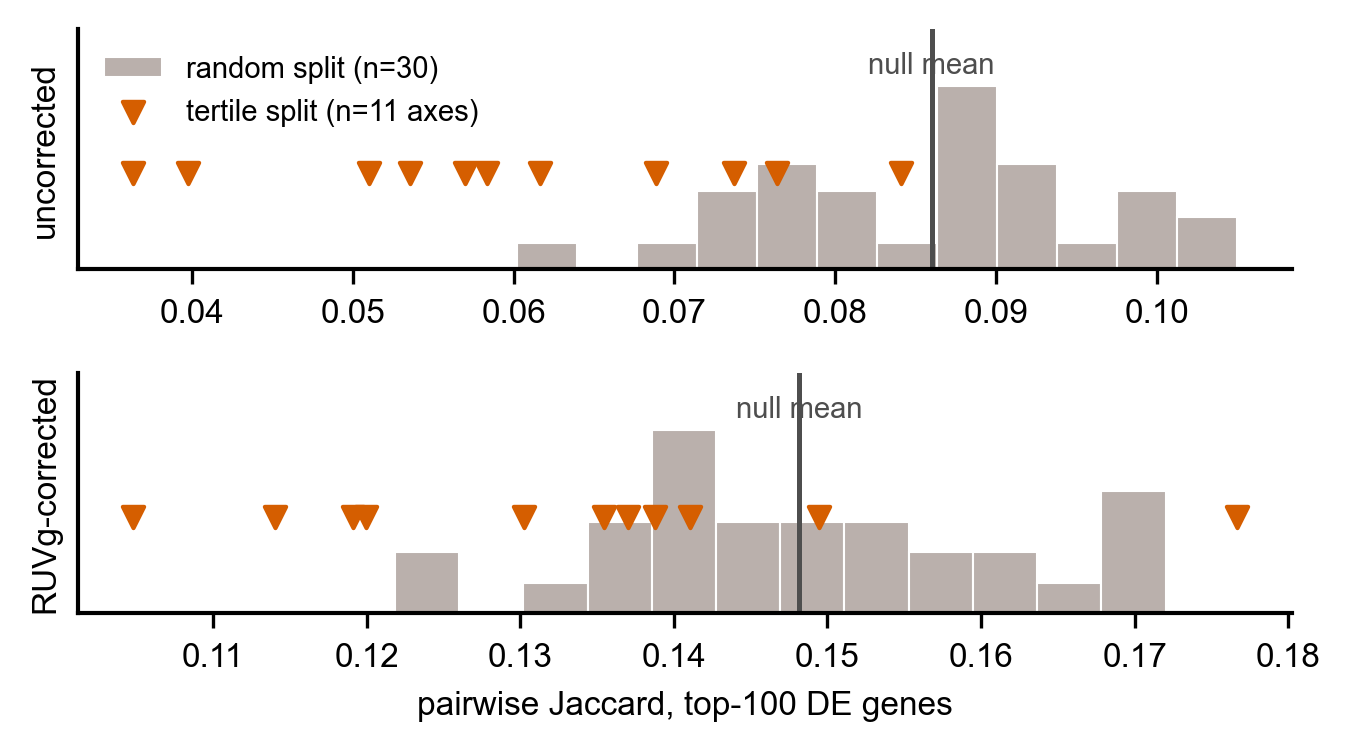
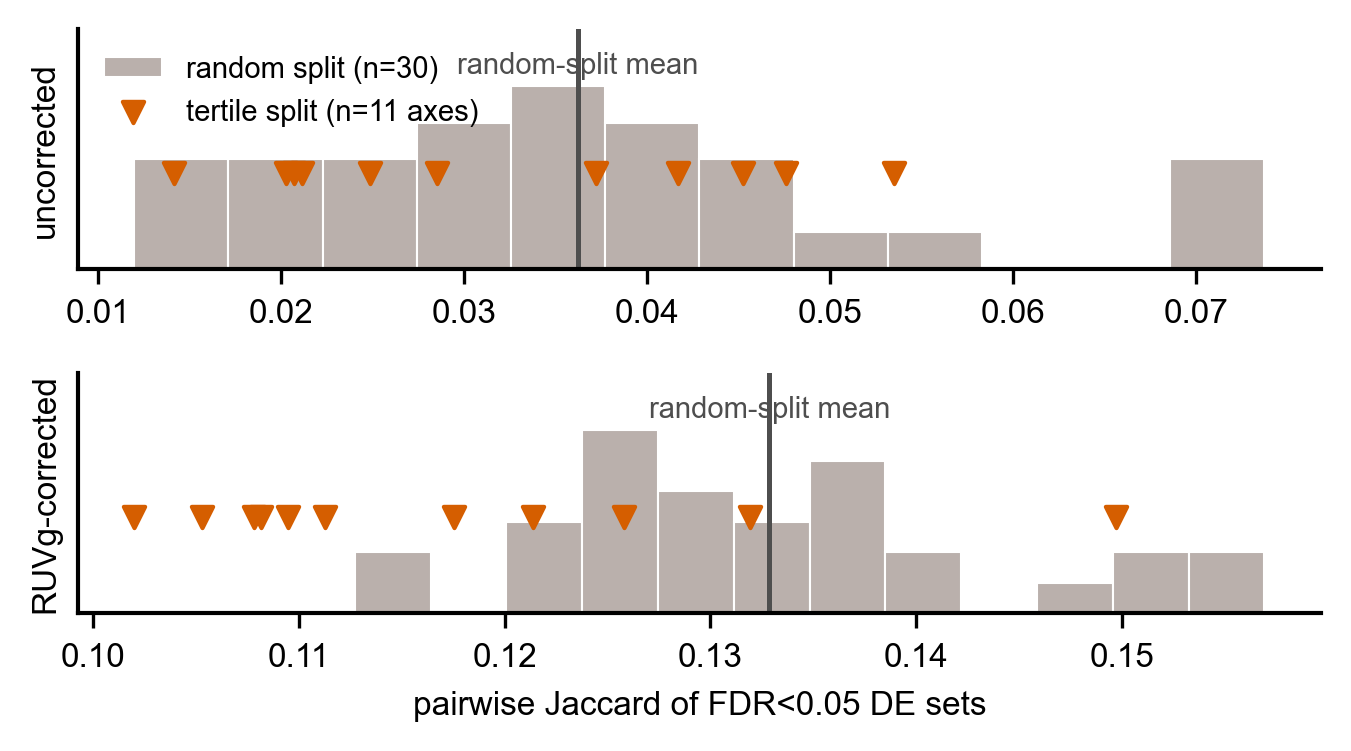
ㄱㄷㄴ

diff --git a/EDA/control_composition/compute_fdr_set_jaccard.py b/EDA/control_composition/compute_fdr_set_jaccard.py
@@ -1,0 +1,99 @@
+"""Gene-level Jaccard over the FDR<0.05 significant SET (not a fixed top-k).
+
+The significant set is what a paper actually reports, so this is the estimand the
+control-composition claim is about. Set sizes differ across strata by design -- that
+instability is part of the result, not a nuisance to be normalized away -- so the
+expected-Jaccard-under-independence baseline is reported alongside.
+
+Cache-first: reads the CSV if present, recomputes only with force=True.
+"""
+import sys
+from pathlib import Path
+
+import numpy as np
+import pandas as pd
+from scipy.stats import norm
+
+ROOT = Path(__file__).resolve().parents[2]
+sys.path.insert(0, str(ROOT))
+import config
+
+STAT_DIR = config.CTRL_COMP_DIR / "deseq2_stats"
+OUT_CSV = config.CTRL_COMP_DIR / "gene_fdr_set_jaccard.csv"
+DESIGNS = ["no_covariate", "ruvg_k2"]
+N_GENES = 18892
+
+
+def bh_reject(p, q=0.05):
+    p = np.asarray(p)
+    n = len(p)
+    o = np.argsort(p)
+    ok = p[o] <= (np.arange(1, n + 1) / n) * q
+    r = np.zeros(n, dtype=bool)
+    if ok.any():
+        r[o[:np.max(np.where(ok)[0]) + 1]] = True
+    return r
+
+
+def sig_sets(tag, design, q=0.05):
+    out = []
+    for t in range(3):
+        f = STAT_DIR / tag / f"T{t}_{design}.csv.gz"
+        if not f.exists():
+            return None
+        s = pd.read_csv(f, index_col=0)["stat"].dropna()
+        out.append(set(s.index[bh_reject(2 * norm.sf(np.abs(s.values)), q)]))
+    return out
+
+
+def pair_stats(sets):
+    """Observed Jaccard and its independence expectation, averaged over the 3 pairs."""
+    obs, exp = [], []
+    for i, a in enumerate(sets):
+        for b in sets[i + 1:]:
+            if not (a | b):
+                continue
+            obs.append(len(a & b) / len(a | b))
+            e = len(a) * len(b) / N_GENES
+            exp.append(e / (len(a) + len(b) - e))
+    if not obs:
+        return np.nan, np.nan
+    return float(np.mean(obs)), float(np.mean(exp))
+
+
+def compute():
+    rows = []
+    for tag in sorted(p.name for p in STAT_DIR.iterdir() if p.is_dir()):
+        disease = "Pancreatic Cancer" if tag.startswith("Pancreatic_Cancer") else "Pancreatitis"
+        kind = "random" if "__null_" in tag else "tertile"
+        axis = tag.split("__", 1)[1]
+        for design in DESIGNS:
+            s = sig_sets(tag, design)
+            if s is None:
+                continue
+            j_obs, j_exp = pair_stats(s)
+            sizes = list(map(len, s))
+            rows.append(dict(tag=tag, disease=disease, kind=kind, axis=axis, design=design,
+                             jaccard_fdr=j_obs, jaccard_exp=j_exp,
+                             enrichment=j_obs / j_exp if j_exp and j_exp > 0 else np.nan,
+                             n_sig_min=min(sizes), n_sig_med=int(np.median(sizes)),
+                             n_sig_max=max(sizes)))
+    return pd.DataFrame(rows)
+
+
+def load(force=False):
+    if OUT_CSV.exists() and not force:
+        return pd.read_csv(OUT_CSV)
+    df = compute()
+    df.to_csv(OUT_CSV, index=False)
+    return df
+
+
+if __name__ == "__main__":
+    df = load(force="--force" in sys.argv)
+    pd.set_option("display.width", 200)
+    print(df.groupby(["disease", "design", "kind"]).agg(
+        n=("jaccard_fdr", "size"), J_obs=("jaccard_fdr", "mean"),
+        J_exp=("jaccard_exp", "mean"), enrichment=("enrichment", "median"),
+        nsig_min=("n_sig_min", "mean"), nsig_med=("n_sig_med", "mean"),
+        nsig_max=("n_sig_max", "mean")).round(4).to_string())
